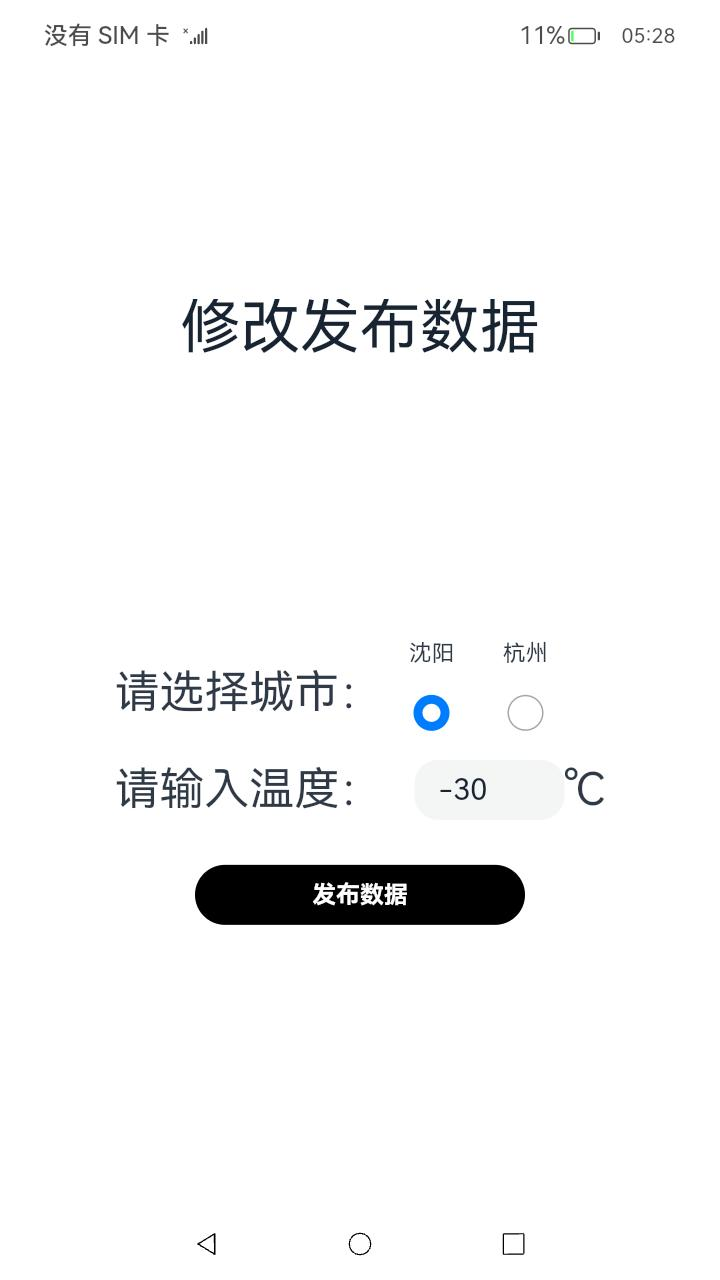
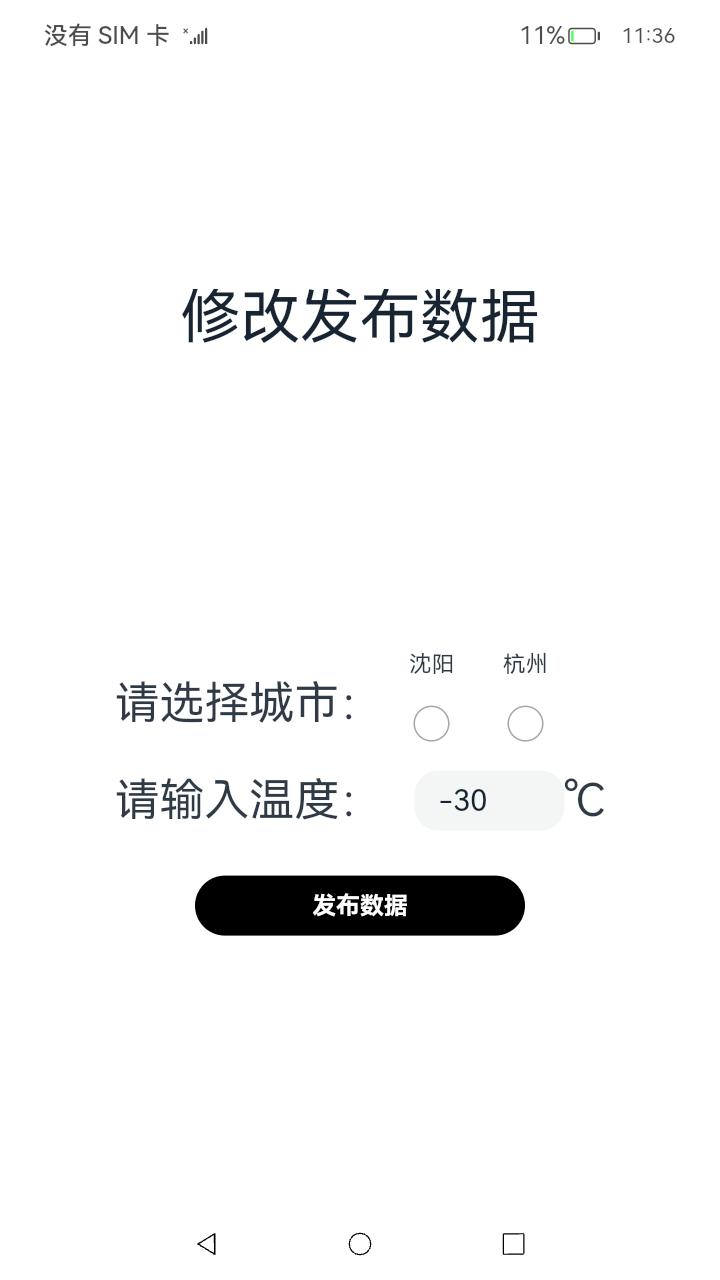
Persistence code modify

diff --git a/code/SuperFeature/Widget/FormExtAbility/persistentProxyForm/src/main/ets/entryability/EntryAbility.ts b/code/SuperFeature/Widget/FormExtAbility/persistentProxyForm/src/main/ets/entryability/EntryAbility.ts
@@ -17,10 +17,8 @@ import UIAbility from '@ohos.app.ability.UIAbility';
 import window from '@ohos.window';
 import Logger from '../../common/Logger';
 
-PersistentStorage.PersistProp('persistentRadioShenYang', false);
-PersistentStorage.PersistProp('persistentRadioHangZhou', false);
-PersistentStorage.PersistProp('persistentPublishHangZhou', false);
-PersistentStorage.PersistProp('persistentPublishHangZhou', false);
+PersistentStorage.PersistProp('persistentConditionID', '000000');
+PersistentStorage.PersistProp('persistentPublishID', '000000');
 
 export default class EntryAbility extends UIAbility {
   onCreate(want, launchParam) {

diff --git a/code/SuperFeature/Widget/FormExtAbility/processProxyForm/src/main/ets/entryability/EntryAbility.ts b/code/SuperFeature/Widget/FormExtAbility/processProxyForm/src/main/ets/entryability/EntryAbility.ts
@@ -17,10 +17,8 @@ import UIAbility from '@ohos.app.ability.UIAbility';
 import window from '@ohos.window';
 import Logger from '../../common/Logger';
 
-PersistentStorage.PersistProp('processRadioShenYang', false);
-PersistentStorage.PersistProp('processRadioHangZhou', false);
-PersistentStorage.PersistProp('processPublishHangZhou', false);
-PersistentStorage.PersistProp('processPublishHangZhou', false);
+PersistentStorage.PersistProp('processConditionID', '000000');
+PersistentStorage.PersistProp('processPublishID', '000000');
 
 export default class EntryAbility extends UIAbility {
   onCreate(want, launchParam) {
